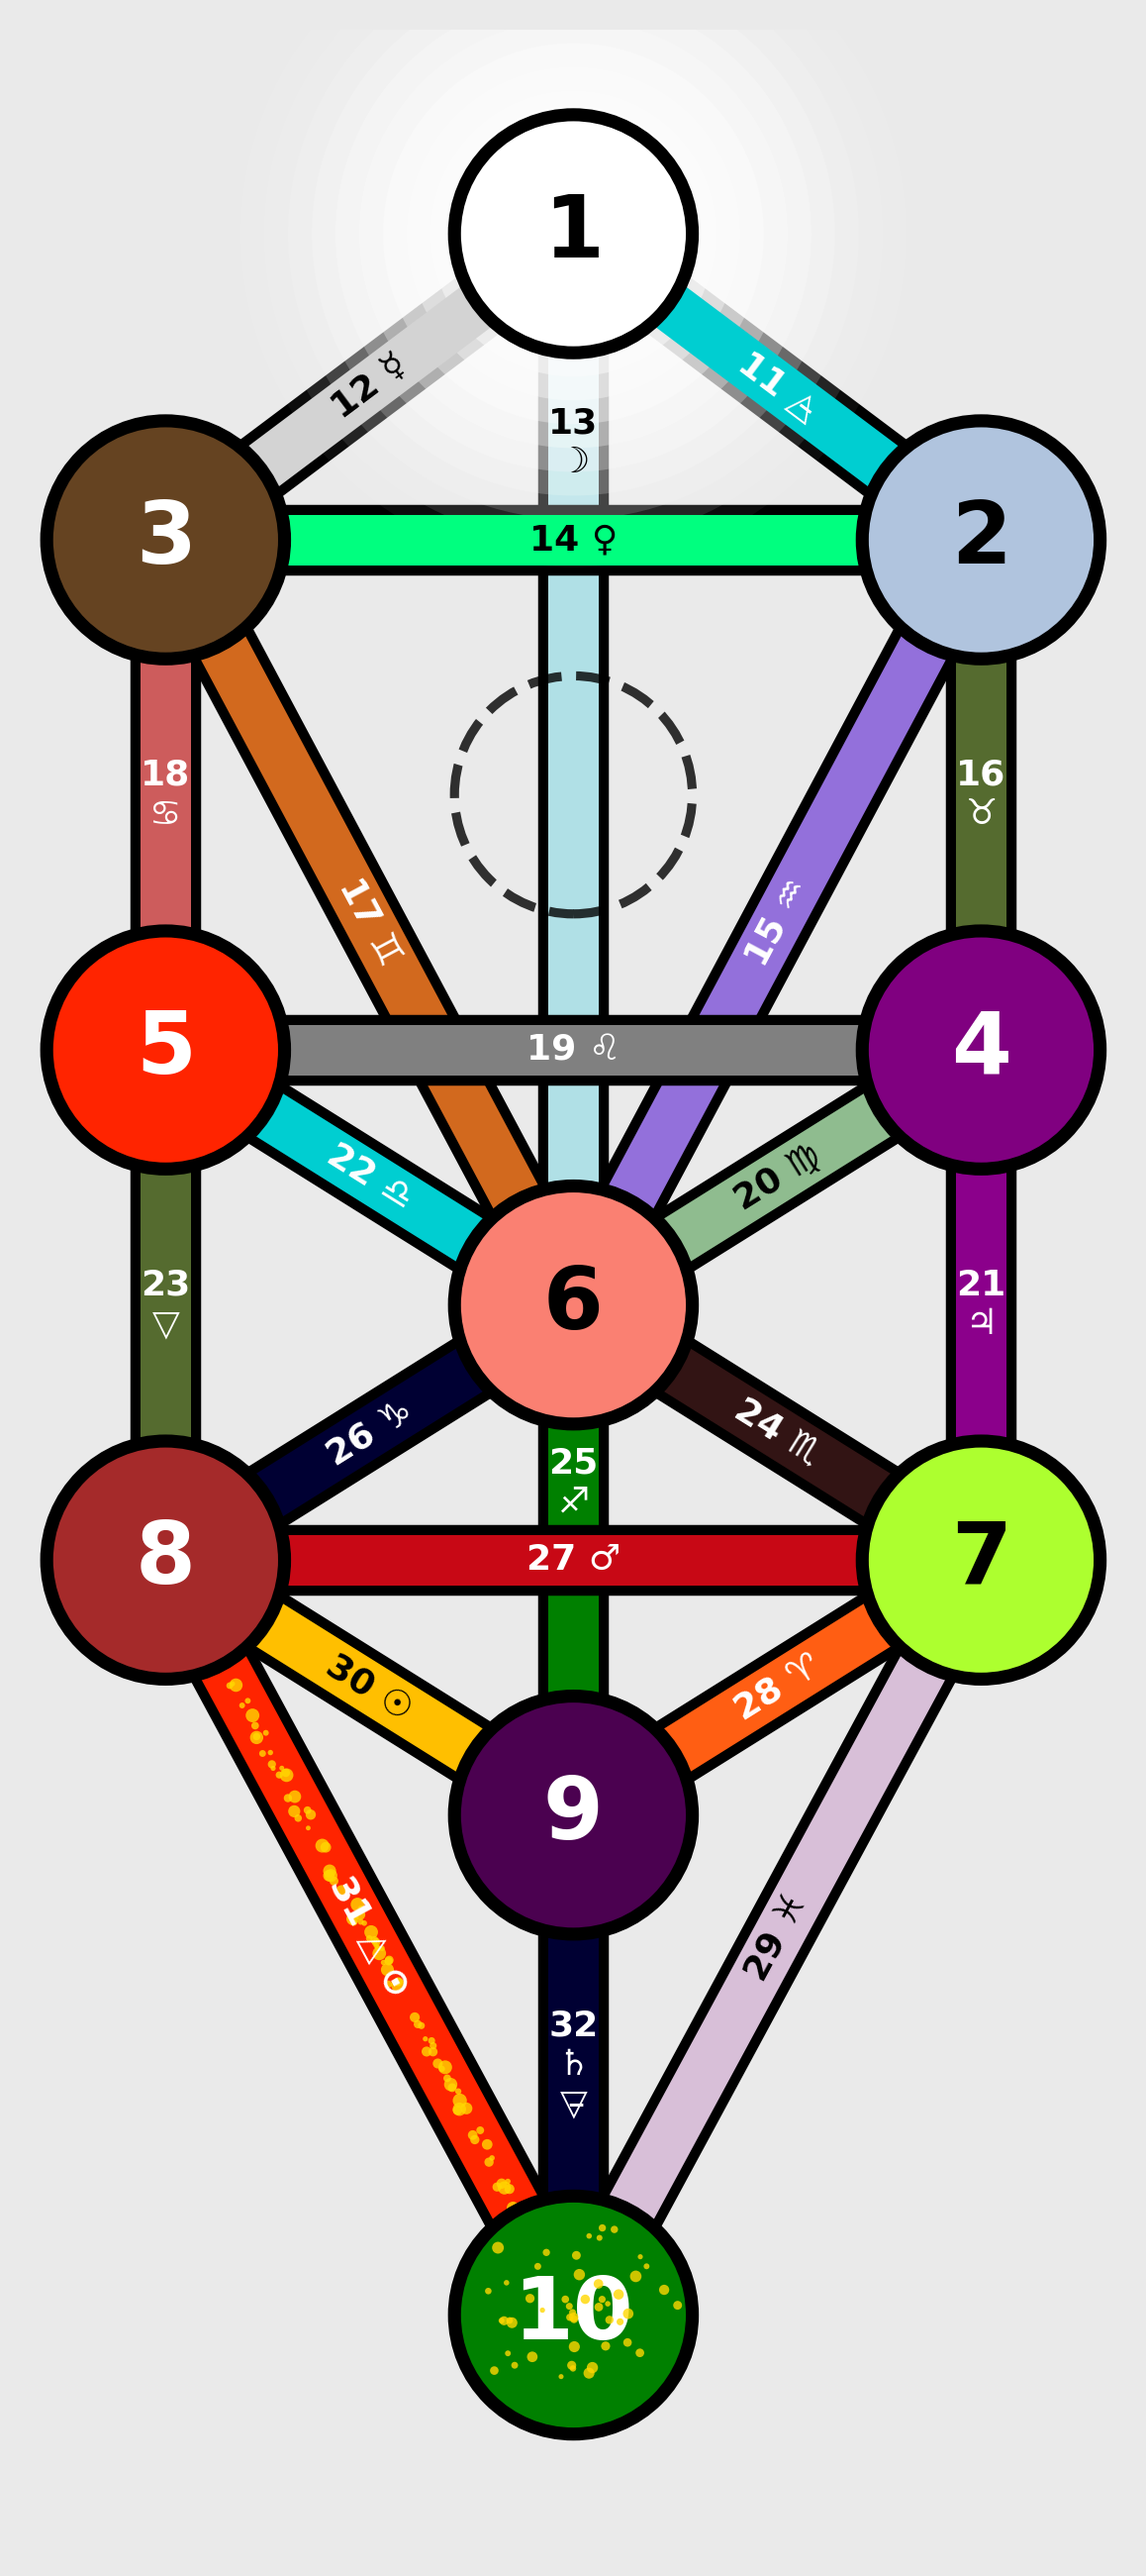
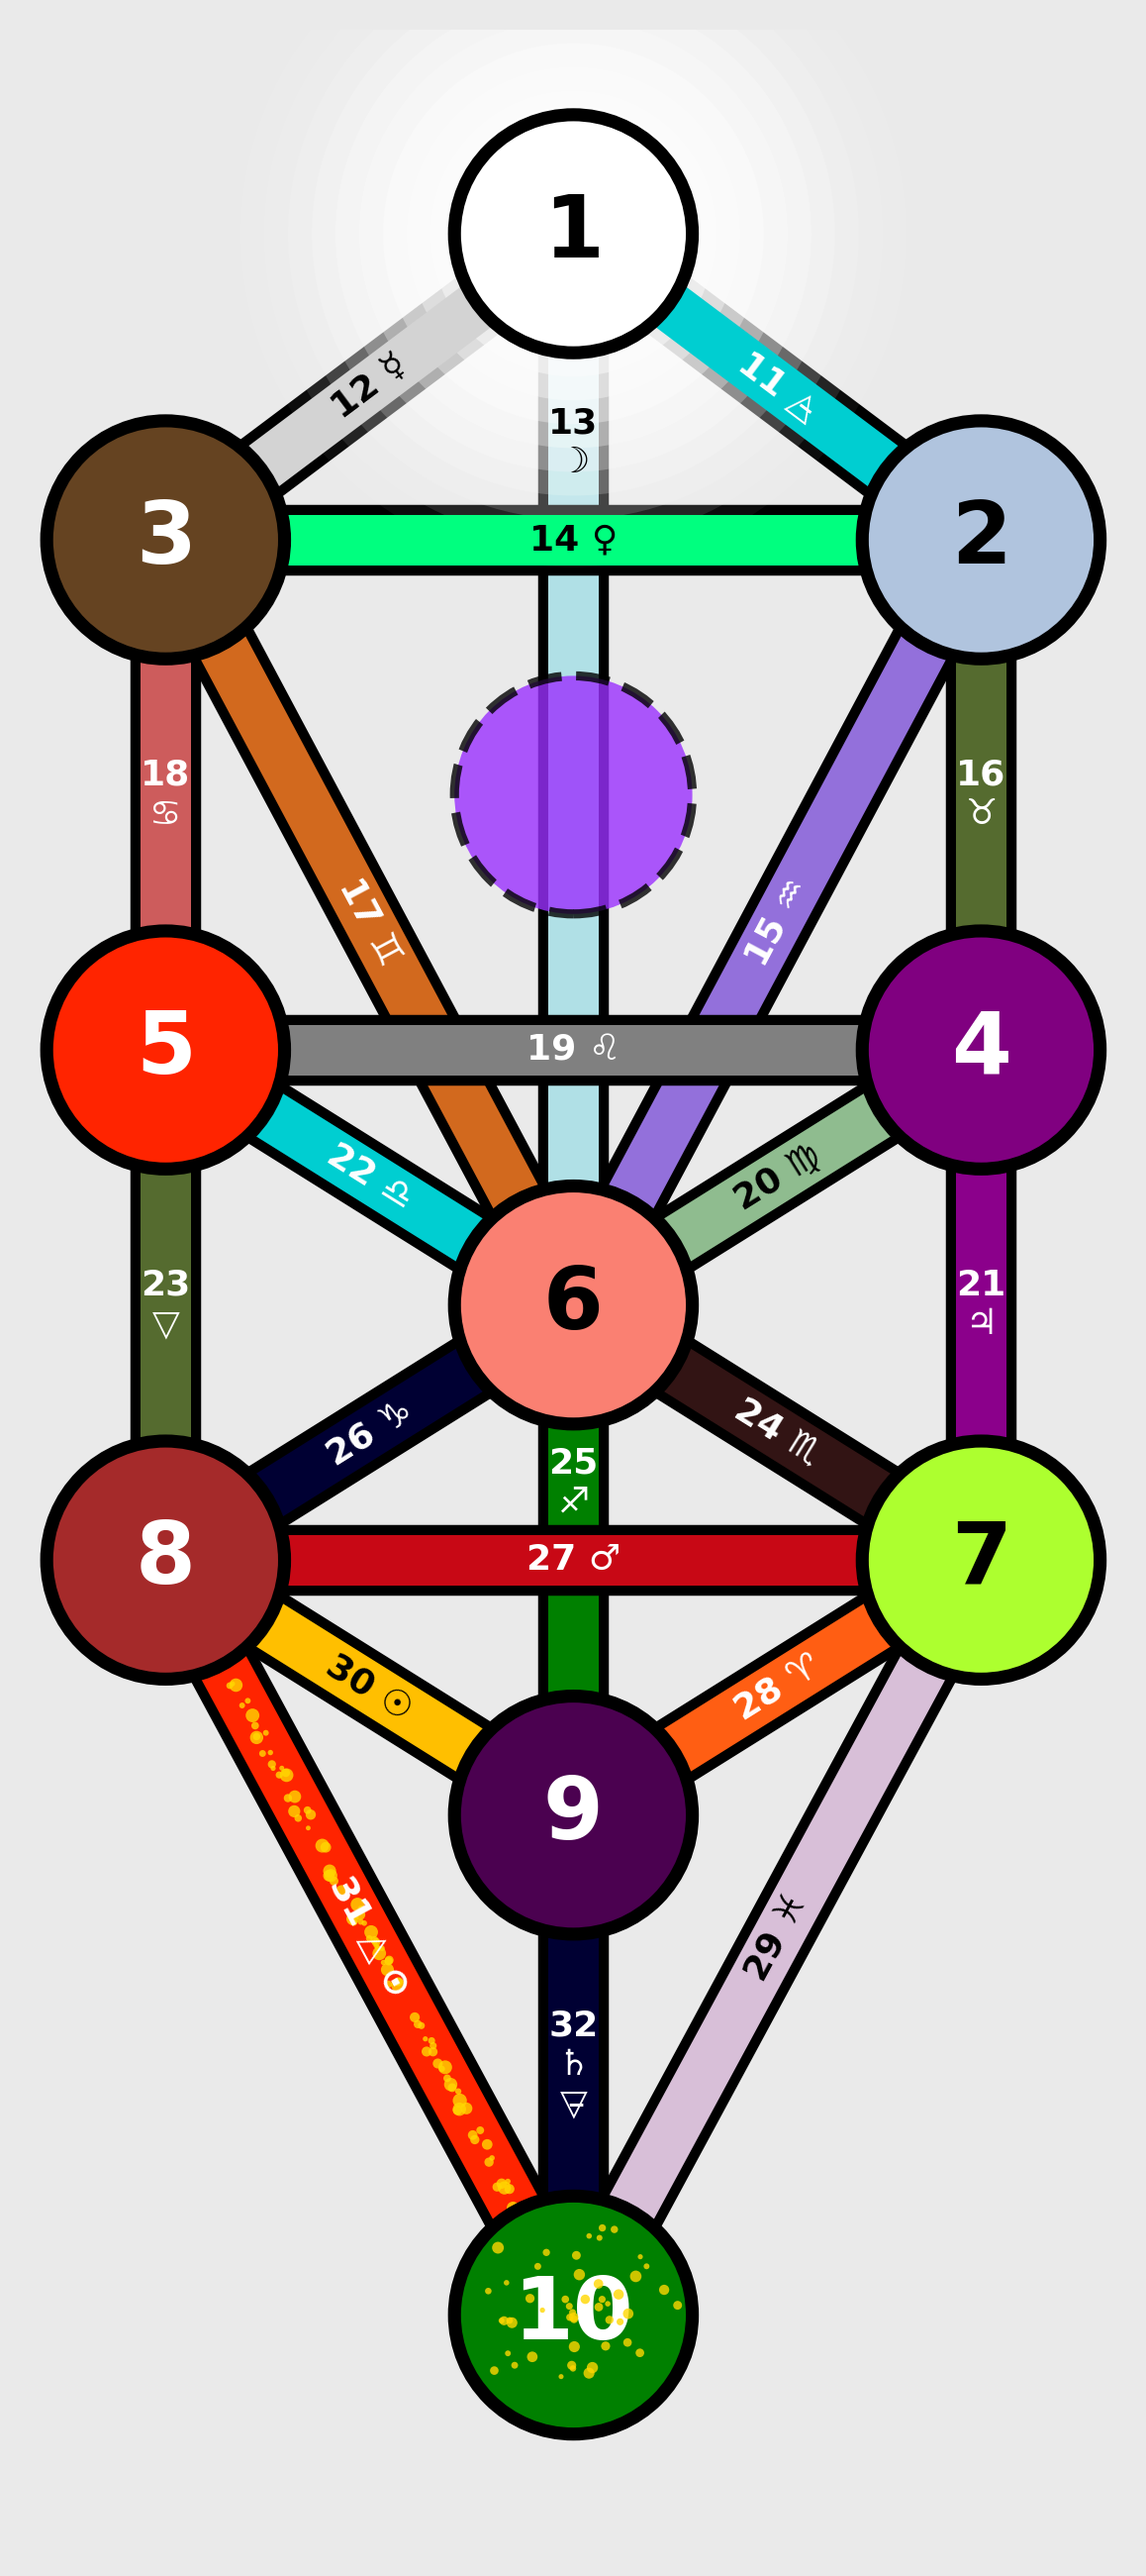
feat: improve Da'ath rendering with color effects and better focus handling

Changed region(s): [[0.3731, 0.2491, 0.6218, 0.3737]]

diff --git a/tol/TreeOfLife.py b/tol/TreeOfLife.py
@@ -819,17 +819,29 @@ class TreeOfLife:
             x, y = self.daath.coord
             color = self.daath.color
 
-            # Use gray border when Kether or Tiphareth is focused
-            if focus_sephirah == 1 or focus_sephirah == 6:
+            # If focusing on a specific sephirah, gray out Da'ath unless it's directly connected
+            if focus_sephirah is not None:
+                # Use gray for Da'ath when in focus mode
                 daath_border_color = '#AAAAAA'
+
+                # Da'ath isn't directly connected to any nodes, but logically appears
+                # in the vertical pillar between Kether and Tiphereth
+                if focus_sephirah not in [1, 6]:  # If not Kether or Tiphereth
+                    color = '#E0E0E0'  # Use a grayish color for Da'ath's background
+                    text_color = '#AAAAAA'  # Use the same gray text color as other grayed-out Sephiroth
+                else:
+                    # Use contrasting text color for better visibility when Da'ath is highlighted
+                    text_color = get_contrasting_text_color(color)
             else:
                 daath_border_color = circle_edge_color
+                # Use contrasting text color for normal mode
+                text_color = get_contrasting_text_color(color)
 
             # Da'ath is typically drawn with a dashed line
             circle = patches.Circle(
                 (x, y),
                 self.circle_radius,
-                facecolor='none',  # Transparent fill
+                facecolor=color,  # Use actual color instead of transparent fill
                 edgecolor=daath_border_color,
                 linewidth=circle_line_width * 0.7,
                 linestyle='dashed',
@@ -837,6 +849,13 @@ class TreeOfLife:
                 zorder=zorder_daath
             )
             ax.add_patch(circle)
+
+            # Apply special color effects if any
+            if self.daath.color_effect and (focus_sephirah is None or focus_sephirah in [1, 6]):
+                apply_color_effect(
+                    ax, 'sephirah', 0, x, y, color,
+                    self.daath.color_effect, self.circle_radius
+                )
 
             # Add Da'ath text if enabled
             if self.show_sephiroth_text:
@@ -859,11 +878,10 @@ class TreeOfLife:
                     display_text = ""  # Default to blank if mode is invalid
                     fontsize = 12 * self.sphere_scale_factor
 
-                # Use gray text for Da'ath
                 ax.text(
                     x, y,
                     display_text,
-                    color='#555555',
+                    color=text_color,  # Now using the text_color set above
                     fontsize=fontsize,
                     ha='center',
                     va='center',
